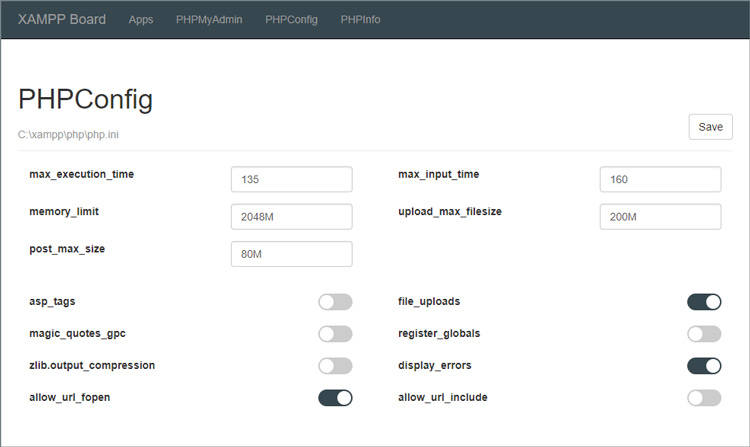
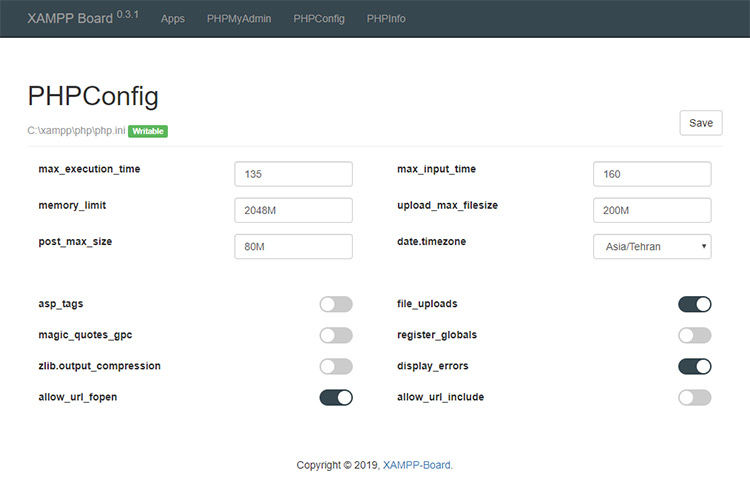
Update README.md & shot1.jpg

diff --git a/README.md b/README.md
@@ -1,8 +1,9 @@
-# XAMPP Board
+# XAMPP Board 0.3.1
 Simple dashboard for XAMPP.
 
 Usage
 ---
-Download and extract zip file into your *htdocs*. <br><br>
+Download and extract zip file into your *htdocs*. <br>
+Don't worry to replace index.php.<br>
 
 ![Alt text](xamppboard/theme/assets/images/shot1.jpg?raw=true "ScreenShot XAMPPBoard for XAMPP")
